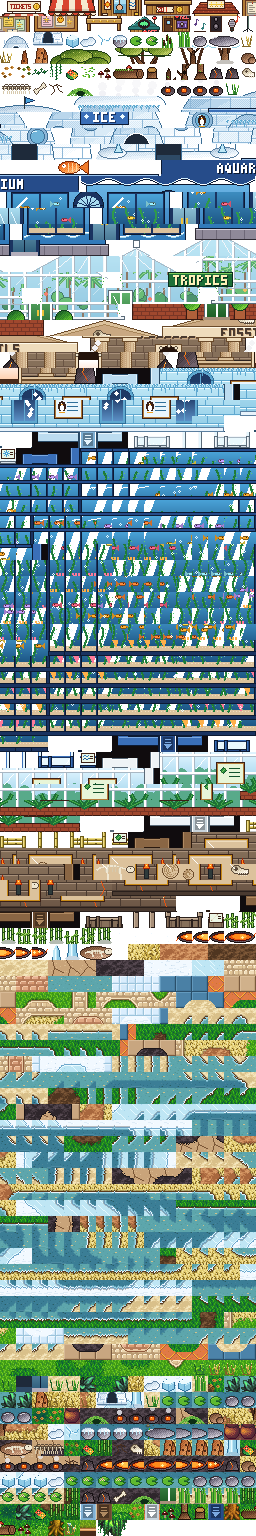
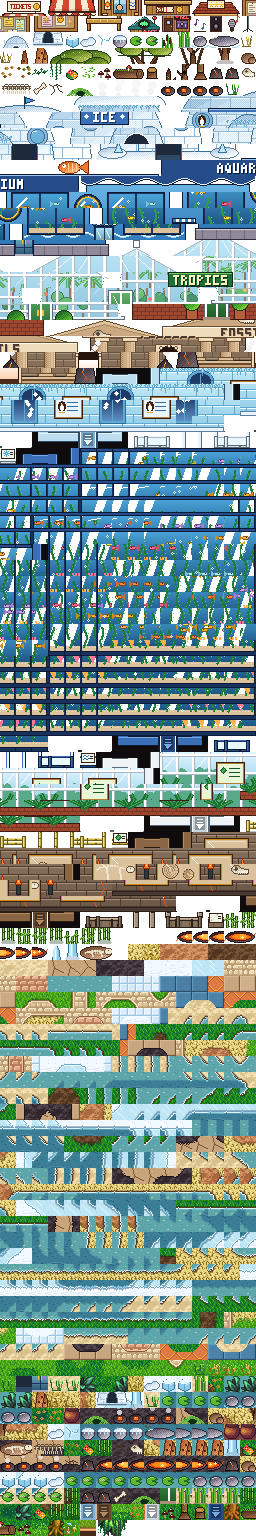
art: proportionate aquarium door
Shrink the aquarium's 2x5-tile arched entrance to a 1x2-tile glass double
door that fills exactly the walkable door tile, under a striped awning, and
fill the freed wall with a brass porthole tank.

diff --git a/tools/draw_pavilions.py b/tools/draw_pavilions.py
@@ -291,19 +291,38 @@ def draw_facade_water(w, h):
             d.ellipse((bx, by, bx + 2, by + 2), outline=(230, 250, 255, 255))
         d.line((box[0] + 3, box[1] + 14, box[0] + 14, box[1] + 3), fill=(255, 255, 255, 140), width=2)
         d.line((box[0] + 26, box[1], box[0] + 26, box[3]), fill=NAVY[1], width=2)
-    # entrance with glass double doors
-    d.rectangle((cx - 15, 60, cx + 15, H - 1), fill=NAVY[1], outline=NAVY[0])
-    d.pieslice((cx - 15, 46, cx + 15, 76), 180, 360, fill=NAVY[1], outline=NAVY[0])
-    d.pieslice((cx - 11, 52, cx + 11, 72), 180, 360, fill=GLASS[2])
-    for a in range(200, 360, 30):
-        d.line((cx, 62, cx + 11 * math.cos(math.radians(a)), 62 + 10 * math.sin(math.radians(a))), fill=NAVY[1])
-    vgrad(im, (cx - 11, 64, cx + 11, H - 2), GLASS[2], GLASS[0])
-    d.line((cx, 64, cx, H - 1), fill=NAVY[0])
-    d.line((cx - 9, 68, cx - 4, 80), fill=GLASS[3])
-    d.line((cx + 3, 68, cx + 8, 80), fill=GLASS[3])
-    for x in (cx - 3, cx + 2):
-        d.rectangle((x, 90, x + 1, 96), fill=GOLD[2])
-    d.rectangle((cx - 13, H - 4, cx + 13, H - 1), fill=ROCK[4])
+    # porthole tank between the windows
+    py = 64
+    d.ellipse((cx - 14, py - 14, cx + 13, py + 13), fill=NAVY[1], outline=NAVY[0])
+    d.ellipse((cx - 12, py - 12, cx + 11, py + 11), fill=GOLD[2], outline=darker(GOLD[2], 0.6))
+    port = make_mask(im.size, lambda m: m.ellipse((cx - 10, py - 10, cx + 9, py + 9), fill=255))
+    vgrad(im, (cx - 10, py - 10, cx + 9, py + 9), OCEAN[4], OCEAN[1], mask=port)
+    for a in range(0, 360, 45):
+        rx, ry = cx - 0.5 + 11 * math.cos(math.radians(a)), py - 0.5 + 11 * math.sin(math.radians(a))
+        d.point((round(rx), round(ry)), fill=GOLD[3])
+    d.line((cx - 7, py + 6, cx - 7 + 1, py - 2), fill=C("#2f9a4a"), width=2)
+    fish(d, cx - 2, py - 3, C("#ffb02e"), darker(C("#ffb02e"), 0.8))
+    d.ellipse((cx + 4, py - 8, cx + 6, py - 6), outline=(230, 250, 255, 255))
+    d.line((cx - 7, py - 3, cx - 3, py - 7), fill=(255, 255, 255, 140), width=2)
+    # striped awning over the door
+    ax0, ax1, ay = cx - 12, cx + 11, H - 38
+    d.rectangle((ax0, ay, ax1, ay + 4), fill=(255, 255, 255, 255), outline=NAVY[0])
+    for x in range(ax0 + 1, ax1, 6):
+        d.rectangle((x, ay + 1, x + 2, ay + 3), fill=OCEAN[3])
+    for x in range(ax0, ax1, 4):
+        d.pieslice((x, ay + 3, x + 4, ay + 7), 0, 180, fill=OCEAN[3] if (x - ax0) % 8 == 0 else (255, 255, 255, 255),
+                   outline=NAVY[0])
+    # glass double doors filling the walkable door tile (one tile wide, two tall)
+    dx0, dx1, dy0 = cx - 8, cx + 7, H - 32
+    d.rectangle((dx0 - 2, dy0 + 2, dx1 + 2, H - 1), fill=NAVY[1], outline=NAVY[0])
+    vgrad(im, (dx0, dy0 + 4, dx1, H - 3), GLASS[2], GLASS[0])
+    d.line((cx, dy0 + 4, cx, H - 3), fill=NAVY[1])
+    d.line((dx0, H - 9, dx1, H - 9), fill=NAVY[1])
+    d.line((dx0 + 1, dy0 + 7, dx0 + 4, dy0 + 13), fill=GLASS[3])
+    d.line((cx + 2, dy0 + 7, cx + 5, dy0 + 13), fill=GLASS[3])
+    for x in (cx - 2, cx + 1):
+        d.rectangle((x, dy0 + 15, x, dy0 + 19), fill=GOLD[2])
+    d.rectangle((dx0 - 1, H - 2, dx1 + 1, H - 1), fill=ROCK[4])
     return im
 
 
